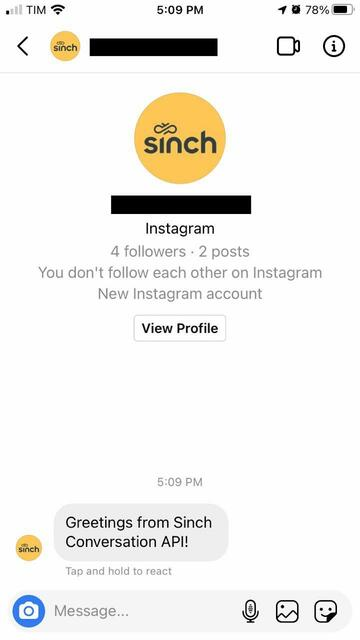
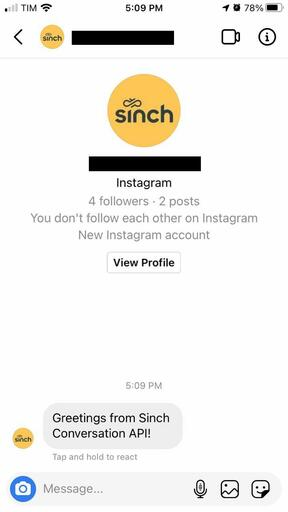
Fix typo and MT image size

diff --git a/docs/conversation/conversation-channel-support/conversation-instagram.md b/docs/conversation/conversation-channel-support/conversation-instagram.md
@@ -6,8 +6,8 @@ false
 ### Conversation API Instagram Support
 
 Conversation API supports Instagram and allows sending messages from Instagram Accounts. The page cannot initiate the
-conversation; it must be started by a contact. To configure an Instagram Account and connect it to Conversation API **
-app**, follow the instructions below:
+conversation; it must be started by a contact. To configure an Instagram Account and connect it to Conversation API 
+**app**, follow the instructions below:
 
 Before you start, you will need access to the following:
 
